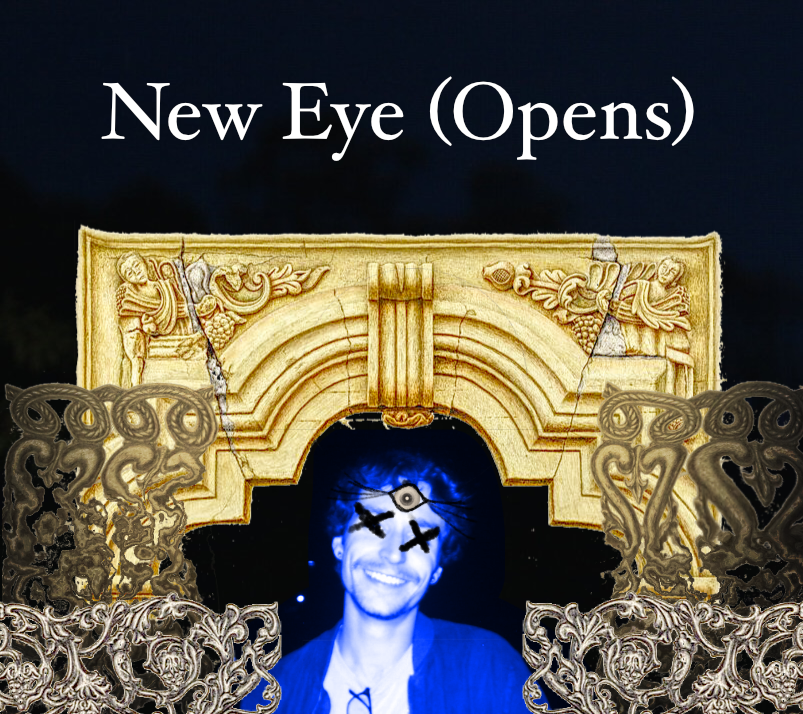
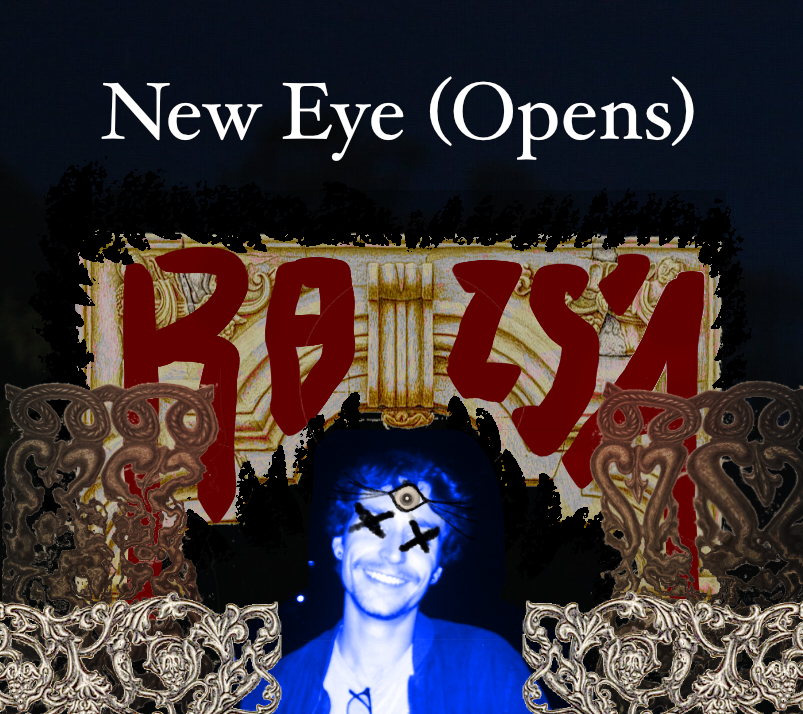
Swap New Eye Opens and Dude Like Dust, update album art, add blue shader

diff --git a/components/fluid-overlay.tsx b/components/fluid-overlay.tsx
@@ -165,7 +165,80 @@ void main() {
 }
 `;
 
-const FluidPlane: FC<{ light?: boolean }> = ({ light = false }) => {
+const fragmentShaderBlue = `
+uniform float u_time;
+uniform float u_aspect;
+varying vec2 vUv;
+
+vec3 mod289(vec3 x) { return x - floor(x * (1.0 / 289.0)) * 289.0; }
+vec2 mod289(vec2 x) { return x - floor(x * (1.0 / 289.0)) * 289.0; }
+vec3 permute(vec3 x) { return mod289(((x*34.0)+1.0)*x); }
+
+float snoise(vec2 v) {
+  const vec4 C = vec4(0.211324865405187, 0.366025403784439,
+                     -0.577350269189626, 0.024390243902439);
+  vec2 i  = floor(v + dot(v, C.yy));
+  vec2 x0 = v - i + dot(i, C.xx);
+  vec2 i1 = (x0.x > x0.y) ? vec2(1.0, 0.0) : vec2(0.0, 1.0);
+  vec4 x12 = x0.xyxy + C.xxzz;
+  x12.xy -= i1;
+  i = mod289(i);
+  vec3 p = permute(permute(i.y + vec3(0.0, i1.y, 1.0))
+                           + i.x + vec3(0.0, i1.x, 1.0));
+  vec3 m = max(0.5 - vec3(dot(x0,x0), dot(x12.xy,x12.xy),
+                           dot(x12.zw,x12.zw)), 0.0);
+  m = m*m; m = m*m;
+  vec3 x = 2.0 * fract(p * C.www) - 1.0;
+  vec3 h = abs(x) - 0.5;
+  vec3 ox = floor(x + 0.5);
+  vec3 a0 = x - ox;
+  m *= 1.79284291400159 - 0.85373472095314 * (a0*a0 + h*h);
+  vec3 g;
+  g.x = a0.x * x0.x + h.x * x0.y;
+  g.yz = a0.yz * x12.xz + h.yz * x12.yw;
+  return 130.0 * dot(m, g);
+}
+
+float fbm(vec2 p) {
+  float f = 0.0;
+  float amp = 0.5;
+  for (int i = 0; i < 5; i++) {
+    f += amp * snoise(p);
+    p *= 2.1;
+    amp *= 0.5;
+  }
+  return f;
+}
+
+void main() {
+  vec2 uv = vUv;
+  uv.x *= u_aspect;
+  float t = u_time * 0.003;
+
+  vec2 suv = uv * 0.3;
+
+  vec2 q = vec2(fbm(suv + vec2(sin(t * 0.7), cos(t * 0.5)) * 0.8), fbm(suv + vec2(5.2, 1.3) + vec2(cos(t * 0.6), sin(t * 0.4)) * 0.8));
+  vec2 r = vec2(fbm(suv + q * 5.0 + vec2(1.7, 9.2) + vec2(sin(t * 0.5), cos(t * 0.3)) * 0.6),
+                fbm(suv + q * 5.0 + vec2(8.3, 2.8) + vec2(cos(t * 0.4), sin(t * 0.6)) * 0.6));
+  float f = fbm(suv + r * 4.0);
+
+  float shape = smoothstep(-0.2, 0.6, f);
+  shape *= smoothstep(-0.4, 0.3, f + 0.1 * snoise(suv * 3.0 + t));
+
+  vec3 color = vec3(0.0, 0.02, 0.08);
+  color = mix(color, vec3(0.0, 0.55, 0.85), shape * 0.8);
+  color += vec3(0.0, 0.75, 1.0) * smoothstep(0.3, 0.8, f) * 0.3;
+
+  float edge = smoothstep(0.25, 0.35, shape) - smoothstep(0.35, 0.55, shape);
+  color += vec3(0.0, 0.85, 1.0) * edge * 0.4;
+
+  float alpha = shape * 0.35;
+
+  gl_FragColor = vec4(color, alpha);
+}
+`;
+
+const FluidPlane: FC<{ light?: boolean; blue?: boolean }> = ({ light = false, blue = false }) => {
   const { viewport, size } = useThree();
   const materialRef = useRef<THREE.ShaderMaterial>(null!);
 
@@ -187,16 +260,16 @@ const FluidPlane: FC<{ light?: boolean }> = ({ light = false }) => {
         ref={materialRef}
         uniforms={uniforms}
         vertexShader={vertexShader}
-        fragmentShader={light ? fragmentShaderLight : fragmentShaderDark}
+        fragmentShader={blue ? fragmentShaderBlue : light ? fragmentShaderLight : fragmentShaderDark}
         transparent
       />
     </Plane>
   );
 };
 
-export const FluidOverlay: FC<{ light?: boolean }> = ({ light = false }) => {
+export const FluidOverlay: FC<{ light?: boolean; blue?: boolean }> = ({ light = false, blue = false }) => {
   return (
-    <FluidPlane light={light} />
+    <FluidPlane light={light} blue={blue} />
   );
 };
 

diff --git a/app/page.tsx b/app/page.tsx
@@ -32,8 +32,8 @@ const ScanlineOverlay = dynamic(() => import('@/components/scanline-overlay'), {
   ssr: false,
 });
 
-const landingRecord = { artist: 'Isaac Rozsa', music: 'Dude Like Dust', albumArt: '/albums/dude-like-dust.png', audioSrc: '/audio/dude-like-dust.mp3', isSong: true, plasticWrap: 2 as const, subjects: ['/subject3.png', '/subject3.png'] as [string, string] };
-const newEyeRecord = { artist: 'Isaac Rozsa', music: 'New Eye (Opens)', albumArt: '/albums/new-eye-opens.png', audioSrc: '/audio/new-eye-opens.mp3', isSong: true, plasticWrap: 1 as const, subjects: ['/subject.png', '/subject2.png'] as [string, string] };
+const landingRecord = { artist: 'Isaac Rozsa', music: 'New Eye (Opens)', albumArt: '/albums/new-eye-opens.png', audioSrc: '/audio/new-eye-opens.mp3', isSong: true, plasticWrap: 1 as const, subjects: ['/subject.png', '/subject2.png'] as [string, string] };
+const newEyeRecord = { artist: 'Isaac Rozsa', music: 'Dude Like Dust', albumArt: '/albums/dude-like-dust.png', audioSrc: '/audio/dude-like-dust.mp3', isSong: true, plasticWrap: 2 as const, subjects: ['/subject3.png', '/subject3.png'] as [string, string] };
 
 const socialLinks = [
   { name: 'Instagram', href: 'https://instagram.com/isaacrozsa', disabled: false, icon: (
@@ -476,7 +476,7 @@ export default function Home() {
               dpr={[1, 1]}
               frameloop='always'
             >
-              <FluidOverlay light />
+              <FluidOverlay blue />
             </Canvas>
           </div>
         )}
